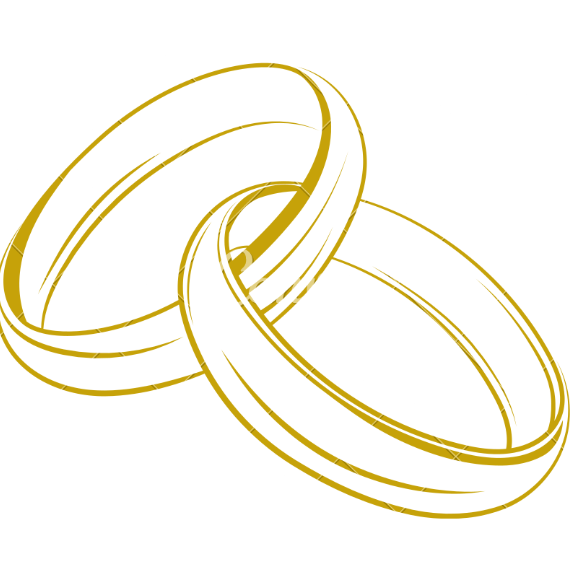
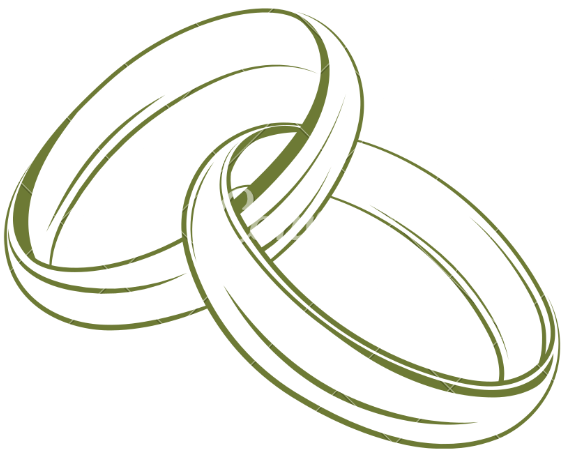
commit 2

diff --git a/estilo/style.css b/estilo/style.css
@@ -28,7 +28,9 @@
 
 
 
-
+p {
+    color: rgb(90, 87, 87) !important; 
+}
 * {
     margin: 0;
     padding: 0;
@@ -133,37 +135,7 @@ p {
     margin-top: 40px;
     text-align: center;
     padding: 40px 20px;
-    background-color: #fff; /* Fundo branco */
-}
-
-.heart {
-    width: 40px;
-    height: 40px;
-    background-color: #6D7A35; /* Cor verde eucalipto */
-    position: relative;
-    transform: rotate(-45deg);
-    display: inline-block;
-    margin-bottom: 20px;
-}
-
-.heart::before,
-.heart::after {
-    content: "";
-    width: 40px;
-    height: 40px;
-    background-color: #6D7A35;
-    border-radius: 50%;
-    position: absolute;
-}
-
-.heart::before {
-    top: -20px;
-    left: 0;
-}
-
-.heart::after {
-    left: 20px;
-    top: 0;
+    background-color: #fff;
 }
 
 .bendicion h3 {
@@ -175,24 +147,28 @@ p {
 
 .padres {
     margin-top: 20px;
+    display: flex;
+    align-items: center;
+    justify-content: center;
+    gap: 30px; /* Espaçamento entre os elementos */
 }
 
 .padres-couple {
-    margin-bottom: 10px;
+    display: flex;
+    flex-direction: column;
+    text-align: center;
 }
 
 .padres p {
     font-family: "Bebas Neue", sans-serif;
-    font-size: 1.3rem;
+    font-size: 1.1rem;
     color: #555;
     margin: 5px 0;
 }
 
-.separator-line {
-    width: 50%;
-    margin: 20px auto;
-    border: none;
-    border-top: 2px dashed #6D7A35; /* Linha desenhada em verde eucalipto */
+.separator-image {
+    width: 100px; /* Tamanho da imagem, ajuste conforme necessário */
+    height: auto;
 }
 
 
@@ -206,7 +182,7 @@ p {
 .nos-casamos h2 {
     font-family: "Corinthia", cursive;
     font-size: 2.7rem;
-    color: #6D7A35;; /* Cor verde eucalipto */
+    color: #6D7A35; /* Cor verde eucalipto */
     margin-bottom: 5px; /* Reduz ainda mais a margem inferior do título */
 }
 
@@ -478,8 +454,8 @@ p {
     position: relative;
     padding: 10px 24px;
     font-size: 18px;
-    color: rgb(193, 163, 98);
-    border: 2px solid rgb(193, 163, 98);
+    color: #6D7A35; 
+    border: 2px solid #6D7A35; 
     border-radius: 34px;
     background-color: transparent;
     font-weight: 600;
@@ -497,7 +473,7 @@ p {
     border-radius: inherit;
     scale: 0;
     z-index: -1;
-    background-color: rgb(193, 163, 98);
+    background-color: #92a247;
     transition: all 0.6s cubic-bezier(0.23, 1, 0.320, 1);
   }
   
@@ -508,7 +484,7 @@ p {
   .button:hover {
     color: #212121;
     scale: 1.1;
-    box-shadow: 0 0px 20px rgba(193, 163, 98,0.4);
+    box-shadow: 0 0px 20px b(193, 163, 98,0.4);
   }
   
   .button:active {

diff --git a/index.html b/index.html
@@ -33,14 +33,13 @@
 
 <!-- Sección 2 - Bendición -->
 <section class="bendicion">
-    
     <h3>Con la bendición de Dios y nuestros padres:</h3>
     <div class="padres">
         <div class="padres-couple">
             <p>Herminio Britos Chaparro</p>
-            <p>Luisa Sosa Silva</p>
+            <p>Luisa Sosa Silva </p>
         </div>
-        <hr class="separator-line">
+        <img src="imagens/eucalipto nome dos pais.jpg" alt="Folha de Eucalipto" class="separator-image">
         <div class="padres-couple">
             <p>Victor Domingo Cano Maciel</p>
             <p>Patrocinia Insfrán de Cano</p>
@@ -124,7 +123,7 @@
 
     <!-- Bloco do Brindis -->
     <div class="evento" style="margin-bottom: 30px;">
-        <img src="imagens/foto taça.png" alt="Imagem do Brindis" class="icone-imagem">
+        <img src="imagens/foto taça 1.png" alt="Imagem do Brindis" class="icone-imagem">
         <p>Brindis Terraza 20:00 hs</p>
     </div>
     
@@ -138,6 +137,11 @@
             <a href="https://www.google.com/maps/place/Los+Lagos+Resort+Hotel/@-25.3854009,-57.4610324,17z/data=!4m9!3m8!1s0x945db2813955c939:0x104e6cab23ce1ae8!5m2!4m1!1i2!8m2!3d-25.3854009!4d-57.4584575!16s%2Fg%2F1vn__12x?entry=ttu&g_ep=EgoyMDI0MTAyMy4wIKXMDSoASAFQAw%3D%3D" target="_blank">LOCALIZACION</a>
           </button>
     
+          <div class="evento" style="margin-bottom: 30px; margin-top: 50px;">
+            <img src="imagens/ternos.png" alt="Imagem do Brindis" class="icone-imagem">
+            <p style="font-size: 1.5rem;">Tenida Elegante</p>
+        </div>
+
 </section>
 
 
@@ -169,7 +173,7 @@
 <!-- Seção de Informações -->
 <section class="informacoes">
     <div class="informacoes-esquerda">
-        <h2>Esperamos verte desde el altar.</h2>
+        <h2>!Esperamos verte!</h2>
     </div>
     <div class="informacoes-direita">
         <p>Solicitamos atentamente tu respuesta antes del 31 de diciembre de 2024. ¡Salud!</p>
